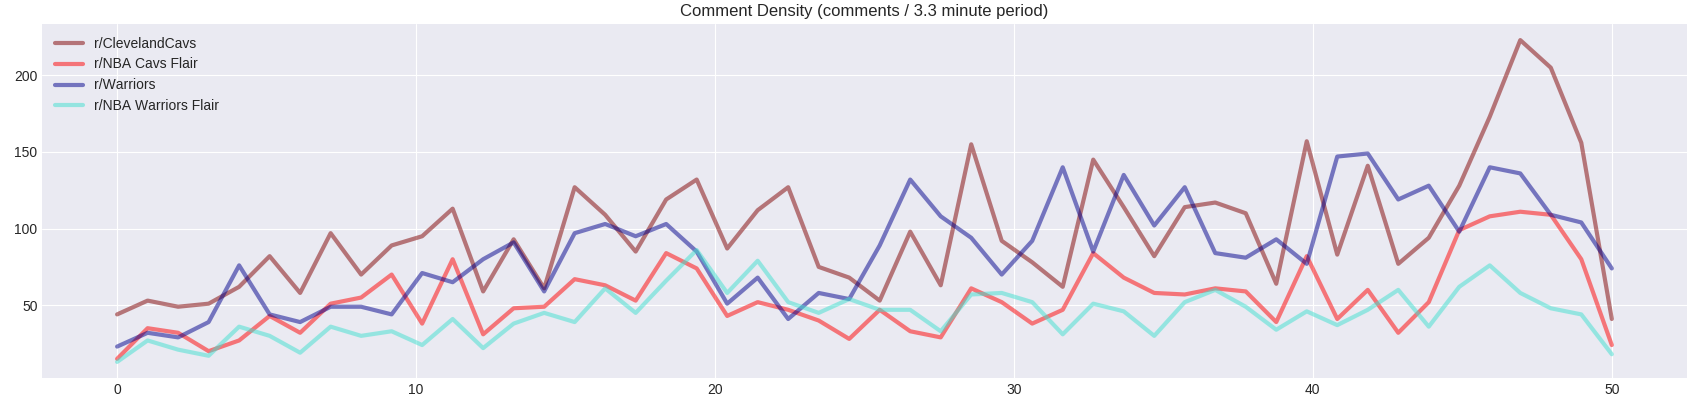
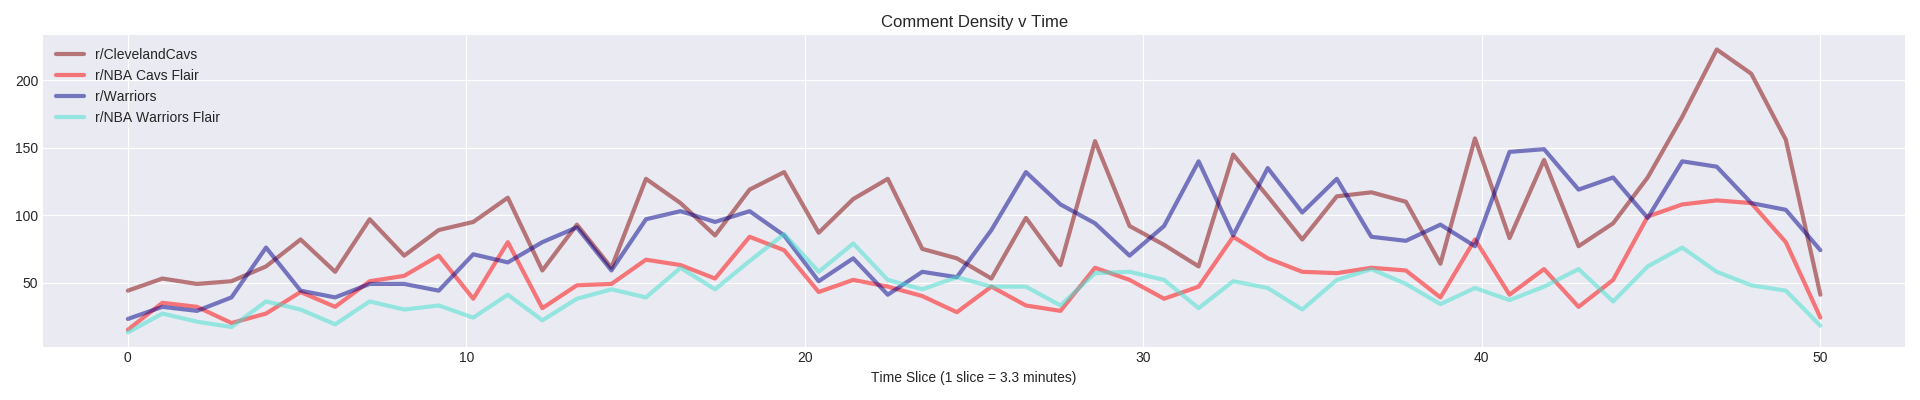
changing plot labeling and file names for consistency

diff --git a/src/SentimentScoreCommentDensity.py b/src/SentimentScoreCommentDensity.py
@@ -21,7 +21,7 @@ nba_df, flair_cavs_df, flair_dubs_df, cavs_df, dubs_df = PrepData.bin_dfs(list_d
 
 
 matplotlib.rc('lines', linewidth=3)
-fig, ((ax1, ax2, ax3),(ax4, ax5, ax6)) = plt.subplots(2,3,figsize=(15, 4))
+fig, ((ax1, ax2, ax3),(ax4, ax5, ax6)) = plt.subplots(2,3,figsize=(20, 8))
 
 #rNba
 nba_data = nba_df[['time_slice','sentiment_score']].groupby('time_slice').agg([np.mean, np.sum, np.size])
@@ -30,12 +30,13 @@ x = np.linspace(0, nba_data.shape[0], num = nba_data.shape[0])
 ax1.plot(x, nba_data['sentiment_score']['mean'], color = 'orangered', alpha = 0.5)
 ax1.set_ylim(-3,3)
 ax1.hlines(0, 0, bins, linestyles = 'dashed')
-ax1.set_title('r/NBA Sentiment v Time')
+ax1.set_title('r/NBA Sentiment Score v Time')
 ax1.legend(('r/NBA',), loc = 'upper left')
 
 ax4.plot(x, nba_data['sentiment_score']['size'], color = 'orangered', alpha = 0.5)
-ax4.set_title('r/NBA Comment Density (comments / 3.3 minute period)')
+ax4.set_title('r/NBA Comment Density v Time')
 ax4.legend(('r/NBA',), loc = 'upper left')
+ax4.set_xlabel('Time Slice (1 slice = 3.3 minutes)')
 plt.grid()
 
 #Cavs
@@ -45,12 +46,13 @@ ax2.plot(x, cavs_data['sentiment_score']['mean'], color = 'maroon', alpha = 0.5)
 ax2.plot(x, flair_cavs_data['sentiment_score']['mean'], color = 'red', alpha = 0.5)
 ax2.set_ylim(-3,3)
 ax2.hlines(0, 0, bins, linestyles = 'dashed')
-ax2.set_title('Cavaliers Sentiment v Time')
+ax2.set_title('Cavaliers Sentiment Score v Time')
 ax2.legend(('r/ClevelandCavs','r/NBA Cavs Flair'), loc = 'upper left')
 
 ax5.plot(x, cavs_data['sentiment_score']['size'], color = 'maroon', alpha = 0.5)
 ax5.plot(x, flair_cavs_data['sentiment_score']['size'], color = 'red', alpha = 0.5)
-ax5.set_title('Cavaliers Comment Density (comments / 3.3 minute period)')
+ax5.set_title('Cavaliers Comment Density v Time')
+ax5.set_xlabel('Time Slice (1 slice = 3.3 minutes)')
 ax5.legend(('r/ClevelandCavs','r/NBA Cavs Flair'), loc = 'upper left')
 
 #Warriors
@@ -65,7 +67,8 @@ ax3.legend(('r/Warriors','r/NBA Warriors Flair'), loc = 'upper left')
 
 ax6.plot(x, dubs_data['sentiment_score']['size'], color = 'darkblue', alpha = 0.5)
 ax6.plot(x, flair_dubs_data['sentiment_score']['size'], color = 'turquoise', alpha = 0.5)
-ax6.set_title('Warriors Comment Density (comments / 3.3 minute period)')
+ax6.set_title('Warriors Comment Density v Time')
+ax6.set_xlabel('Time Slice (1 slice = 3.3 minutes)')
 ax6.legend(('r/Warriors','r/NBA Warriors Flair'), loc = 'upper left')
 
 plt.grid()

diff --git a/src/SentimentScoreCustomAfinn.py b/src/SentimentScoreCustomAfinn.py
@@ -21,23 +21,24 @@ custom_data = custom_df[['time_slice','sentiment_score']].groupby('time_slice').
 
 def plot_sentiment():
     matplotlib.rc('lines', linewidth=3)
-    fig, ax = plt.subplots(figsize=(15, 4))
+    fig, ax = plt.subplots(figsize=(20, 4))
 
     x = np.linspace(0, default_data.shape[0], num = default_data.shape[0])
-    ax.plot(x, default_data['sentiment_score']['mean'], color = 'blue', alpha = 0.5)
-    ax.plot(x, custom_data ['sentiment_score']['mean'], color = 'red', alpha = 0.5)
+    ax.plot(x, default_data['sentiment_score']['mean'], color = 'orangered', alpha = 0.5)
+    ax.plot(x, custom_data ['sentiment_score']['mean'], color = 'orangered', linestyle = '-.', alpha = 0.5)
 
     ax.set_ylim(-3,3)
-    ax.hlines(0, 0, bins, linestyles = 'dashed')
-    ax.set_title('r/NBA Sentiment')
+    ax.hlines(0, 0, bins, linestyles = 'dashed', alpha = 0.5)
+    ax.set_title('r/NBA Sentiment Score')
+    ax.set_xlabel('Time Slice (1 slice = 3.3 minutes)')
     ax.legend(('default lexicon','custom lexicon'), loc = 'upper left')
 
     plt.subplots_adjust(top=0.975,
-                        bottom=0.025,
-                        left=0.025,
-                        right=0.975,
-                        hspace=0.07,
-                        wspace=0.05)
+                    bottom=0.025,
+                    left=0.025,
+                    right=0.975,
+                    hspace=0.07,
+                    wspace=0.05)
 
     plt.show()
 

diff --git a/src/SentimentScoreCommentDensityOverlap.py b/src/SentimentScoreCommentDensityOverlap.py
@@ -39,6 +39,7 @@ def plot_sentiment():
     ax.set_ylim(-4,4)
     ax.hlines(0, 0, bins, linestyles = 'dashed')
     ax.set_title('Sentiment v Time')
+    ax.set_xlabel('Time Slice (1 slice = 3.3 minutes)')
     ax.legend(('r/NBA','r/ClevelandCavs','r/NBA Cavs Flair','r/Warriors','r/NBA Warriors Flair'), loc = 'upper left')
 
     plt.subplots_adjust(top=0.975,
@@ -51,7 +52,7 @@ def plot_sentiment():
 
 def plot_density():
     matplotlib.rc('lines', linewidth=3)
-    fig, ax = plt.subplots(figsize=(15, 4))
+    fig, ax = plt.subplots(figsize=(20, 4))
 
     x = np.linspace(0, nba_data.shape[0], num = nba_data.shape[0])
     # ax.plot(x, nba_data['sentiment_score']['size'], color = 'orangered', alpha = 0.5) # skews the plot
@@ -60,7 +61,8 @@ def plot_density():
     ax.plot(x, dubs_data['sentiment_score']['size'], color = 'darkblue', alpha = 0.5)
     ax.plot(x, flair_dubs_data['sentiment_score']['size'], color = 'turquoise', alpha = 0.5)
 
-    ax.set_title('Comment Density (comments / 3.3 minute period)')
+    ax.set_title('Comment Density v Time')
+    ax.set_xlabel('Time Slice (1 slice = 3.3 minutes)')
     ax.legend(('r/ClevelandCavs','r/NBA Cavs Flair','r/Warriors','r/NBA Warriors Flair'), loc = 'upper left')
 
     plt.subplots_adjust(top=0.94,
@@ -72,5 +74,5 @@ def plot_density():
     plt.show()
 
 if __name__ == "__main__":
-    plot_sentiment()
-    # plot_density()
+    # plot_sentiment()
+    plot_density()
